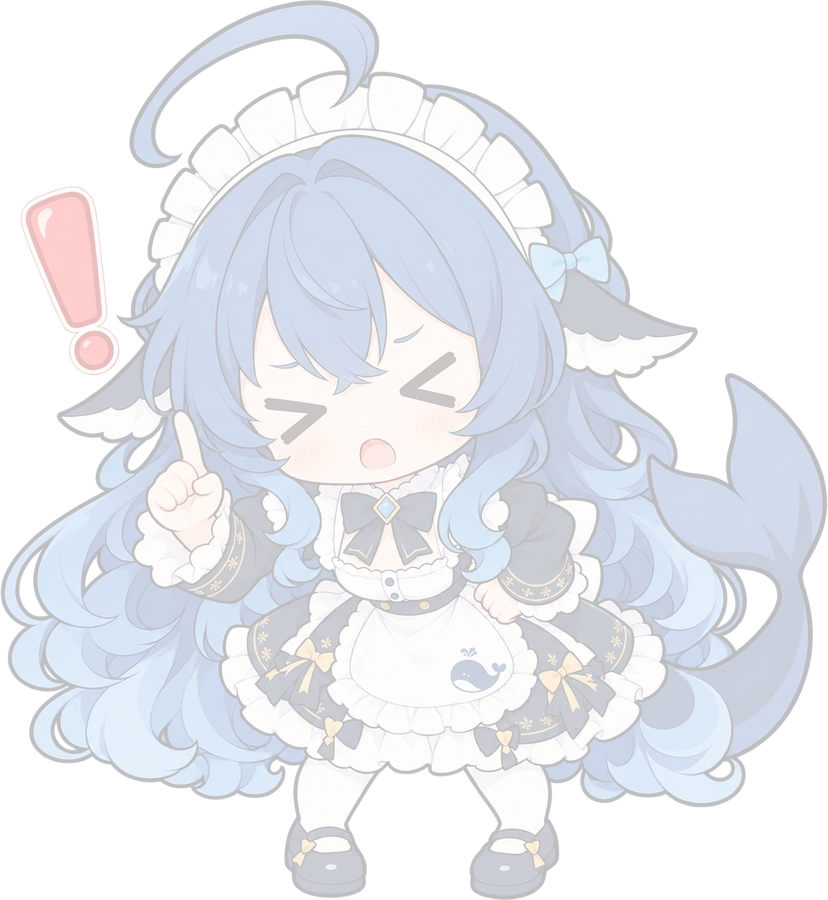
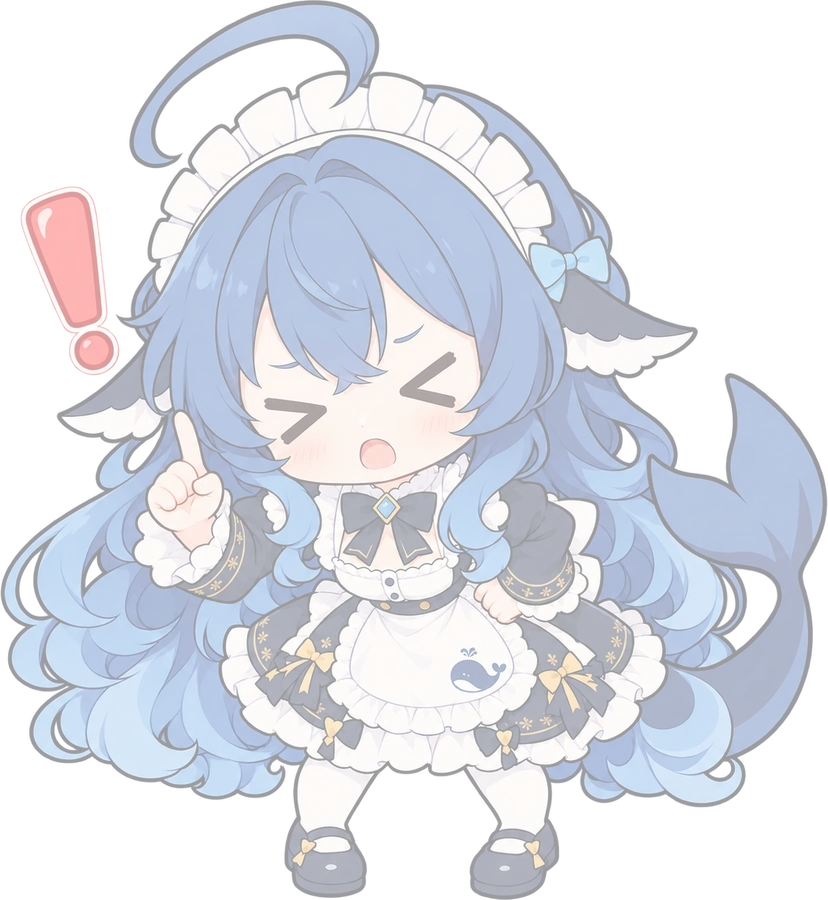
0.12.3: dialog chibi brighter and further into the corner

diff --git a/lib/client.js b/lib/client.js
@@ -275,8 +275,8 @@ window.__ModuleLoader__.load({
 			[role="dialog"]::after {
 				content: "";
 				position: absolute;
-				right: -1.6%;
-				bottom: -2%;
+				right: -9.3%;
+				bottom: -7.4%;
 				z-index: -1;
 				width: 42%;
 				aspect-ratio: 828 / 900;

diff --git a/README.md b/README.md
@@ -28,7 +28,7 @@
 - **蓝色字标**：顶栏的 deepseek 鲸鱼与 HARNESS 徽章统一成 DeepSeek 蓝，暗色自动切更亮的浅蓝 `#9cc2ff`；
 - **HARNESS 缎带**：顶栏的 HARNESS 徽章替换成手绘风蕾丝缎带 + 蓝蝴蝶结，文字仍可读；
 - **插件图标 hover 动效**：平时显示 GIF 的第一帧（22px 静态图），鼠标移上去才播放摇摆动画，移开回到第一帧；暗色自动反相；
-- **弹窗女仆**：设置/登录弹窗右下角一枚 26% 透明的 Q 版女仆（竖版站姿），42% 宽，贴着圆角往外压一点、被裁掉少许；蒙版沿左上→右下方向 135° 淡出，不留方形边缘；
+- **弹窗女仆**：设置/登录弹窗右下角一枚 40% 透明的 Q 版女仆（竖版站姿），42% 宽，往右下角压出去一截——尾巴和鞋会被弹窗边缘裁掉，伸出的食指正好落在按钮上方；蒙版沿左上→右下方向 135° 淡出，不留方形边缘；
 - **弹层不透明度下限**：命令面板、下拉菜单等 popover 统一提到 80% 以上，避免背后的正文透出来；
 - **自定义图标**：「新会话」换成鲸鱼气泡加号，「插件」换成鲸尾，导航尺寸统一；
 - **亮暗跟随**：不需要手动切换，沿用 DSH 的 `data-ds-dark-theme`。

diff --git a/CHANGELOG.md b/CHANGELOG.md
@@ -3,6 +3,13 @@
 All notable changes to this theme. The plugin is intentionally small: no build
 step, no runtime dependencies, only CSS tokens plus a few DOM decorations.
 
+## 0.12.3
+
+- Dialog chibi is brighter (baked alpha 0.26 → 0.40) and is pushed further into
+  the bottom-right corner (`right: -9.3%`, `bottom: -7.4%`), so the panel's own
+  `overflow: hidden` trims her tail and shoes and her raised finger lands above
+  the dialog's buttons instead of beside them.
+
 ## 0.11.3
 
 - Dialog chibi moved from a 12 px-inset watermark to a corner illustration: her
